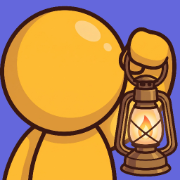
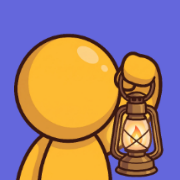
Feature set 202. (#166)

diff --git a/src/renderer/src/styles/game-output.css b/src/renderer/src/styles/game-output.css
@@ -50,8 +50,8 @@
   padding: 3px 2px 5px;
 }
 .look-avatar {
-  width: 84px;
-  height: 108px;
+  width: 168px;
+  height: 216px;
   flex: none;
   object-fit: cover;
   border-radius: 8px;
@@ -65,6 +65,10 @@
   overflow-wrap: anywhere;
 }
 .look-card-line { min-height: 1em; }
+/* Narrow panes can't spare 168px beside the text — keep the original size */
+@media (max-width: 768px) {
+  .look-avatar { width: 84px; height: 108px; }
+}
 .look-avatar-zoomable { cursor: zoom-in; }
 .look-avatar-zoomable:hover { border-color: var(--accent); }
 
